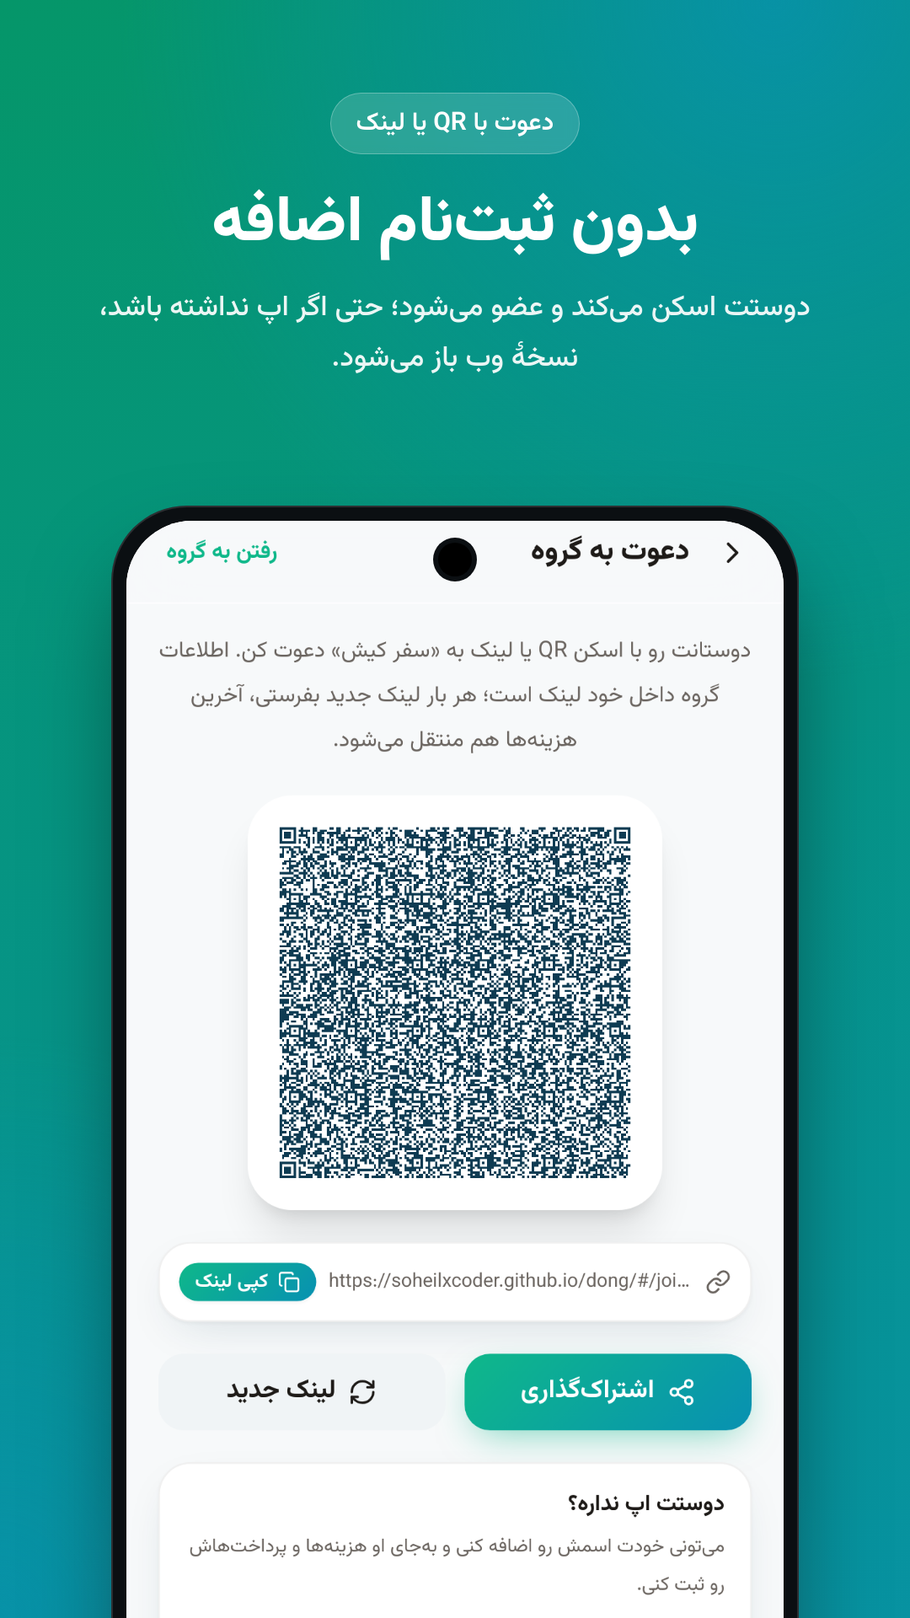
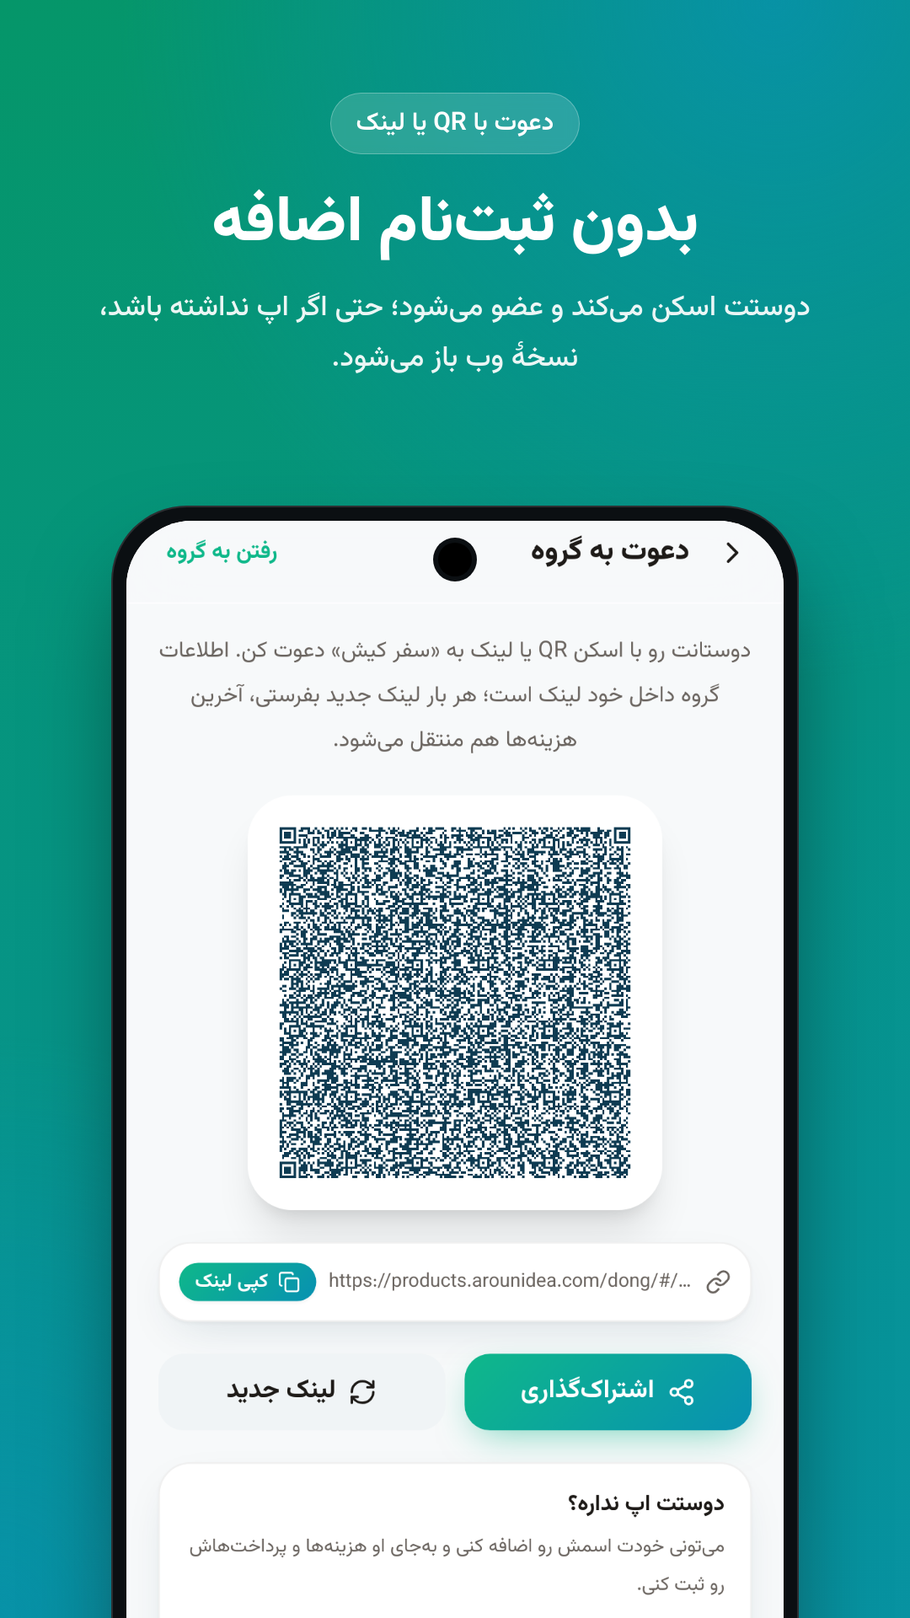
app: invite/deep links now use products.arounidea.com; Android: opt out of Android-15 edge-to-edge + themed system bars (fixes header under status bar, nav bar too low, light/dark layout differences); faster sync (250ms publish, reconnect+pull on resume/online/every 20s); compact home group list, gl

Changed region(s): [[0.3056, 0.5, 0.7028, 0.75], [0.4278, 0.7812, 0.7333, 0.8125]]

diff --git a/apps/web/src/features/home/HomePage.tsx b/apps/web/src/features/home/HomePage.tsx
@@ -1,7 +1,7 @@
 import { useEffect, useMemo, useState } from 'react';
 import { Link, useNavigate } from 'react-router-dom';
 import { motion } from 'framer-motion';
-import { Plus, Sparkles, Bell, ChevronLeft, Link2 } from 'lucide-react';
+import { Plus, Sparkles, Bell, ChevronLeft, Link2, BadgeCheck } from 'lucide-react';
 import { computeNetBalances, simplifyDebts, userBalance, formatAmount } from '@dong/core';
 import { useStore } from '@/app/store';
 import { fmtDate } from '@/lib/date';
@@ -88,8 +88,8 @@ export function HomePage() {
           <AmountText value={Math.abs(total)} className={`text-4xl font-black ${total > 0 ? 'text-pos' : total < 0 ? 'text-neg' : 'text-ink'}`} suffix="" />
           <span className="text-ink-2 font-bold">تومان</span>
         </div>
-        <p className={`text-sm font-bold mt-1 ${total > 0 ? 'text-pos' : total < 0 ? 'text-neg' : 'text-neutral2'}`}>
-          {total > 0 ? 'در مجموع طلبکاری' : total < 0 ? 'در مجموع بدهکاری' : 'صاف صافی 🎉'}
+        <p className={`text-sm font-bold mt-1 flex items-center gap-1.5 ${total > 0 ? 'text-pos' : total < 0 ? 'text-neg' : 'text-pos'}`}>
+          {total > 0 ? 'در مجموع طلبکاری' : total < 0 ? 'در مجموع بدهکاری' : <><BadgeCheck size={16} /> حسابت صافه</>}
         </p>
         <div className="grid grid-cols-2 gap-3 mt-4">
           <div className="rounded-2xl bg-pos/10 p-3"><p className="text-xs text-ink-2">باید بگیری</p><p className="num font-extrabold text-pos mt-0.5">{formatAmount(owed)}</p></div>
@@ -116,32 +116,34 @@ export function HomePage() {
         <Empty mood="waiting" title="هنوز گروهی نداری" text="یک گروه بساز و دوستات رو با لینک یا QR دعوت کن؛ از همون لحظه هزینهها رو ثبت کنید."
           action={<div className="flex gap-2"><button onClick={() => nav('/new-group')} className="btn-primary">گروه جدید</button>{isDev() && <button onClick={loadDemo} disabled={busyDemo} className="btn-ghost"><Sparkles size={16} /> نمونه</button>}</div>} />
       ) : (
-        <div className="px-5 mt-3 grid grid-cols-2 gap-3">
-          {summaries.map(({ g, mine, pendingForMe, last, urgency }, i) => {
-            const big = i === 0 || urgency >= 2;
-            return (
-              <motion.button key={g.group.id} layoutId={`g-${g.group.id}`} onClick={() => nav(`/g/${g.group.id}`)}
-                initial={{ opacity: 0, y: 16 }} animate={{ opacity: 1, y: 0 }} transition={{ delay: i * 0.05 }}
-                className={`card text-right p-4 flex flex-col justify-between relative overflow-hidden ${big ? 'col-span-2 min-h-36' : 'min-h-36'}`}>
-                {g.group.coverImageUrl && <div className="absolute inset-0 pointer-events-none" style={{ background: `linear-gradient(to left, rgb(var(--c-surface) / 0.25), rgb(var(--c-surface)) 55%), url(${g.group.coverImageUrl}) left center / cover no-repeat` }} />}
-                <div className="relative flex items-start justify-between gap-2">
-                  <div className="min-w-0">
-                    <h3 className="font-extrabold truncate text-base">{g.group.name}</h3>
-                    <p className="text-xs text-ink-2 mt-0.5">{fmtAgo(last)}</p>
-                  </div>
-                  {pendingForMe > 0 && <span className="chip bg-amber2/15 text-amber2 shrink-0">{formatAmount(pendingForMe)} تأیید</span>}
+        <div className="px-5 mt-3 flex flex-col gap-2.5">
+          {summaries.map(({ g, mine, pendingForMe, last }, i) => (
+            <motion.button key={g.group.id} layoutId={`g-${g.group.id}`} onClick={() => nav(`/g/${g.group.id}`)}
+              initial={{ opacity: 0, y: 12 }} animate={{ opacity: 1, y: 0 }} transition={{ delay: i * 0.04 }}
+              className="card text-right p-3 flex items-center gap-3 relative overflow-hidden">
+              <span className="absolute inset-y-0 right-0 w-1" style={{ background: mine > 0 ? 'rgb(var(--c-pos))' : mine < 0 ? 'rgb(var(--c-neg))' : 'var(--grad-brand)' }} />
+              <div className="h-12 w-12 rounded-2xl shrink-0 overflow-hidden grid place-items-center text-white font-black text-lg shadow-md"
+                style={{ background: g.group.coverImageUrl ? `url(${g.group.coverImageUrl}) center/cover` : 'var(--grad-hero)' }}>
+                {!g.group.coverImageUrl && g.group.name.trim().charAt(0)}
+              </div>
+              <div className="flex-1 min-w-0">
+                <div className="flex items-center gap-2 min-w-0">
+                  <h3 className="font-extrabold truncate text-[15px]">{g.group.name}</h3>
+                  {pendingForMe > 0 && <span className="chip bg-amber2/15 text-amber2 shrink-0 !py-0.5">{formatAmount(pendingForMe)} تأیید</span>}
                 </div>
-                <div className={`relative flex items-end justify-between mt-3 ${big ? '' : 'flex-col items-start gap-2'}`}>
-                  <AvatarStack names={g.members.map((m) => ({ name: m.user.fullName, src: m.user.avatarUrl }))} size={big ? 30 : 26} max={big ? 6 : 3} />
-                  <BalanceChip value={mine} />
+                <div className="flex items-center gap-2 mt-1.5">
+                  <AvatarStack names={g.members.map((m) => ({ name: m.user.fullName, src: m.user.avatarUrl }))} size={20} max={4} />
+                  <span className="text-[11px] text-ink-2">· {fmtAgo(last)}</span>
                 </div>
-                {big && <span className="absolute left-3 top-1/2 -translate-y-1/2 text-ink-2/40"><ChevronLeft /></span>}
-              </motion.button>
-            );
-          })}
+              </div>
+              <div className="flex items-center gap-1.5 shrink-0">
+                <BalanceChip value={mine} />
+                <ChevronLeft size={16} className="text-ink-2/50" />
+              </div>
+            </motion.button>
+          ))}
         </div>
       )}
-
       <Tour id="home" steps={[
         { title: 'به دُنگ خوش اومدی!', text: 'اینجا خلاصه کل حسابکتابت رو میبینی: چقدر طلب داری و چقدر بدهی. روی هر گروه بزن تا جزئیاتش رو ببینی.', target: 'balance', mood: 'happy' },
         { title: 'گروه بساز', text: 'برای هر سفر یا دورهمی یک گروه بساز و دوستات رو با لینک یا QR دعوت کن.', target: 'fab' },
@@ -150,9 +152,8 @@ export function HomePage() {
       ]} />
       {/* FAB */}
       <motion.button data-tour="fab" whileTap={{ scale: 0.92 }} onClick={() => nav('/new-group')} aria-label="گروه جدید"
-        className="fixed left-5 bottom-[calc(var(--safe-bottom)+92px)] z-40 h-16 w-16 rounded-full grid place-items-center text-white shadow-2xl"
-        style={{ background: 'var(--grad-celebrate)' }}>
-        <Plus size={30} strokeWidth={2.5} />
+        className="fab-ring fixed left-5 bottom-[calc(var(--safe-bottom)+96px)] z-40 h-14 w-14 rounded-full">
+        <span className="h-full w-full rounded-full grid place-items-center text-white" style={{ background: 'var(--grad-celebrate)' }}><Plus size={26} strokeWidth={2.5} /></span>
       </motion.button>
     </div>
   );

diff --git a/apps/web/src/features/groups/GroupPage.tsx b/apps/web/src/features/groups/GroupPage.tsx
@@ -58,9 +58,10 @@ export function GroupPage() {
   return (
     <div className="min-h-dvh pb-32">
       {/* Parallax header */}
-      <motion.div layoutId={`g-${g.group.id}`} className="relative h-56 overflow-hidden curve-bottom grain">
+      <motion.div layoutId={`g-${g.group.id}`} className="relative h-52 overflow-hidden curve-bottom">
         <div className="absolute inset-0" style={{ background: g.group.coverImageUrl ? `url(${g.group.coverImageUrl}) center/cover` : 'var(--grad-hero)' }} />
-        <div className="absolute inset-0 bg-gradient-to-t from-black/60 via-black/10 to-black/20" />
+        {g.group.coverImageUrl && <div className="absolute inset-0" style={{ background: 'linear-gradient(to top, rgba(4,20,24,0.78) 0%, rgba(4,20,24,0.35) 45%, rgba(4,20,24,0.18) 100%)' }} />}
+        {!g.group.coverImageUrl && <><div className="hero-blob hero-blob-a" /><div className="hero-blob hero-blob-b" /></>}
         <div className="relative h-full flex flex-col justify-between p-4" style={{ paddingTop: 'calc(var(--safe-top) + 12px)' }}>
           <div className="flex items-center justify-between text-white">
             <button onClick={() => nav('/')} className="p-2 rounded-full bg-white/15" aria-label="بازگشت"><ChevronRight size={22} /></button>
@@ -76,8 +77,10 @@ export function GroupPage() {
             </div>
           </div>
           <div className="text-white">
-            <h1 className="text-2xl font-black drop-shadow">{g.group.name}</h1>
-            <div className="flex items-center justify-between mt-2">
+            <div className="inline-flex max-w-full items-center rounded-2xl px-3.5 py-2 backdrop-blur-md" style={{ background: 'rgba(6,18,22,0.45)', boxShadow: '0 0 0 1px rgba(255,255,255,0.18) inset' }}>
+              <h1 className="text-xl font-black text-white truncate">{g.group.name}</h1>
+            </div>
+            <div className="flex items-center justify-between mt-2.5">
               <button data-tour="avatars" onClick={() => nav(`/g/${id}/invite`)}><AvatarStack names={g.members.map((m) => ({ name: m.user.fullName, src: m.user.avatarUrl }))} size={30} /></button>
               <BalanceChip value={calc.mine} />
             </div>
@@ -144,13 +147,15 @@ export function GroupPage() {
                     <p className="font-bold truncate">{m.user.fullName} {m.userId === me.id && <span className="text-xs text-ink-2">(من)</span>} {m.role === 'owner' && <span className="chip bg-amber2/15 text-amber2 mr-1">مالک</span>}</p>
                     {m.user.cardNumber ? <p className="mono text-[11px] text-ink-2 mt-0.5 whitespace-nowrap" dir="ltr" style={{ letterSpacing: "0.05em" }}>{formatCardNumber(m.user.cardNumber)}</p> : <p className="text-[11px] text-ink-2 mt-0.5">شماره کارت ثبت نشده</p>}
                   </div>
-                  <div className="flex flex-col items-end gap-1.5">
+                  <div className="flex flex-col items-end gap-1.5 shrink-0">
                     <BalanceChip value={b} />
-                    {m.user.cardNumber && <CopyButton text={m.user.cardNumber} label="کپی شماره کارت" small />}
+                    <div className="flex items-center gap-1">
+                      {m.user.cardNumber && <CopyButton text={m.user.cardNumber} label="کپی شماره کارت" small />}
+                      {isOwner && m.userId !== me.id && (
+                        <button onClick={async () => { if (!confirm(`«${m.user.fullName}» از گروه حذف شود؟`)) return; try { await adapter.removeMember(g.group.id, m.userId); toast('حذف شد'); } catch (e) { toast((e as Error).message, 'err'); } }} className="h-7 w-7 rounded-full grid place-items-center bg-neg/10 text-neg" aria-label="حذف عضو"><Trash2 size={14} /></button>
+                      )}
+                    </div>
                   </div>
-                  {isOwner && m.userId !== me.id && (
-                    <button onClick={async () => { if (!confirm(`«${m.user.fullName}» از گروه حذف شود؟`)) return; try { await adapter.removeMember(g.group.id, m.userId); toast('حذف شد'); } catch (e) { toast((e as Error).message, 'err'); } }} className="p-2 text-ink-2" aria-label="حذف"><Trash2 size={16} /></button>
-                  )}
                 </div>
               );
             })}
@@ -167,8 +172,8 @@ export function GroupPage() {
         { title: 'شفافیت کامل', text: 'همه اتفاقات گروه (هزینه، ویرایش، پرداخت، تأیید) در تب فعالیت ثبت میشه تا هیچکس گیج نشه.', target: 'tab-activity' },
       ]} />
       <motion.button data-tour="fab-expense" whileTap={{ scale: 0.92 }} onClick={() => nav(`/g/${id}/expense/new`)}
-        className="fixed left-5 bottom-[calc(var(--safe-bottom)+24px)] z-40 h-14 pl-5 pr-4 rounded-full flex items-center gap-2 text-white font-extrabold shadow-2xl" style={{ background: 'var(--grad-brand)' }}>
-        <Plus size={24} strokeWidth={2.5} /> ثبت هزینه
+        className="fab-ring fixed left-5 bottom-[calc(var(--safe-bottom)+24px)] z-40 h-13 rounded-full">
+        <span className="h-full w-full rounded-full flex items-center gap-2 pl-5 pr-4 py-3 text-white font-extrabold" style={{ background: 'var(--grad-brand)' }}><Plus size={22} strokeWidth={2.5} /> ثبت هزینه</span>
       </motion.button>
 
       {/* Menu */}

diff --git a/apps/web/src/app/BottomNav.tsx b/apps/web/src/app/BottomNav.tsx
@@ -12,14 +12,14 @@ export function BottomNav() {
   const { pathname } = useLocation();
   if (pathname.startsWith('/g/')) return null;
   return (
-    <nav className="fixed bottom-0 inset-x-0 z-40 flex justify-center pointer-events-none" style={{ paddingBottom: 'calc(var(--safe-bottom) + 12px)' }}>
-      <div className="glass pointer-events-auto flex items-center gap-1 rounded-full px-2 py-1.5 shadow-2xl" style={{ background: 'rgb(var(--c-surface) / 0.7)' }}>
+    <nav className="fixed bottom-0 inset-x-0 z-40 flex justify-center pointer-events-none" style={{ paddingBottom: 'calc(var(--safe-bottom) + 14px)' }}>
+      <div className="glass pointer-events-auto flex items-center gap-1 rounded-full px-2.5 py-2 shadow-2xl" style={{ background: 'rgb(var(--c-surface) / 0.7)' }}>
         {items.map(({ to, label, Icon }) => (
-          <NavLink key={to} to={to} end className="relative flex items-center gap-2 px-4 py-2.5 rounded-full text-sm font-bold">
+          <NavLink key={to} to={to} end className="relative flex items-center gap-2 px-5 py-3 rounded-full text-[15px] font-bold">
             {({ isActive }) => (
               <>
                 {isActive && <motion.span layoutId="nav-pill" className="absolute inset-0 rounded-full" style={{ background: 'var(--grad-brand)' }} transition={{ type: 'spring', stiffness: 400, damping: 30 }} />}
-                <Icon size={20} className={`relative ${isActive ? 'text-white' : 'text-ink-2'}`} />
+                <Icon size={22} className={`relative ${isActive ? 'text-white' : 'text-ink-2'}`} />
                 {isActive && <span className="relative text-white">{label}</span>}
               </>
             )}

diff --git a/apps/web/src/lib/capacitor.ts b/apps/web/src/lib/capacitor.ts
@@ -2,6 +2,17 @@ import { initAds } from './ads';
 import { Capacitor } from '@capacitor/core';
 import { App } from '@capacitor/app';
 import { StatusBar, Style } from '@capacitor/status-bar';
+import { registerPlugin } from '@capacitor/core';
+
+const SystemBars = registerPlugin<{ setColors(o: { status: string; nav: string; dark: boolean }): Promise<void> }>('SystemBars');
+/** Match Android status/navigation bar colors to the in-app theme. No-op on web. */
+export function syncSystemBars(dark: boolean) {
+  if (!Capacitor.isNativePlatform()) return;
+  const bg = dark ? '#0F1416' : '#F7F9FA';
+  StatusBar.setStyle({ style: dark ? Style.Dark : Style.Light }).catch(() => {});
+  StatusBar.setBackgroundColor({ color: bg }).catch(() => {});
+  SystemBars.setColors({ status: bg, nav: bg, dark }).catch(() => {});
+}
 import { SplashScreen } from '@capacitor/splash-screen';
 import '@capacitor/haptics';
 import '@capacitor/share';
@@ -12,8 +23,8 @@ import '@capacitor/local-notifications';
 export function initNative(navigate: (path: string) => void) {
   if (!Capacitor.isNativePlatform()) return;
   setTimeout(() => { void initAds(); }, 800); // preload the single startup ad
-  StatusBar.setStyle({ style: Style.Dark }).catch(() => {});
-  StatusBar.setOverlaysWebView({ overlay: true }).catch(() => {});
+  StatusBar.setOverlaysWebView({ overlay: false }).catch(() => {});
+  syncSystemBars(document.documentElement.classList.contains('dark'));
   SplashScreen.hide().catch(() => {});
   App.addListener('appUrlOpen', ({ url }) => {
     // https://soheilxcoder.github.io/dong/#/join/TOKEN?s=SNAPSHOT  or  dong://join/TOKEN?s=...

diff --git a/apps/web/src/data/sync.ts b/apps/web/src/data/sync.ts
@@ -88,6 +88,17 @@ export class GroupSync {
     entry.close = () => sub.close();
   }
 
+  /** Force-reconnect every subscription (after app resume / network back) and pull the latest snapshot once. */
+  async resync(getKey: (groupId: string) => Promise<string | undefined>) {
+    const ids = [...this.subs.keys()];
+    for (const id of ids) { this.subs.get(id)?.close(); this.subs.delete(id); }
+    for (const id of ids) {
+      const key = await getKey(id); if (!key) continue;
+      this.watch(id, key).catch(() => {});
+      this.fetchLatest(id, key, 5000).then((snap) => { if (snap) return this.onIncoming(id, snap); }).catch(() => {});
+    }
+  }
+
   unwatch(groupId: string) { this.subs.get(groupId)?.close(); this.subs.delete(groupId); if (!this.subs.size) this.setStatus('off'); }
 
   /** Debounced publish of the full (slim) snapshot. */
@@ -105,7 +116,7 @@ export class GroupSync {
         const ok = results.some((r) => r.status === 'fulfilled');
         this.setStatus(ok ? 'online' : 'error');
       } catch { this.setStatus('error'); }
-    }, 800));
+    }, 250));
   }
 
   /** One-shot fetch of the latest snapshot for a key (used when joining). */

diff --git a/apps/web/src/index.css b/apps/web/src/index.css
@@ -90,6 +90,9 @@ input, textarea, select, button { font-family: inherit; }
   .hero-ring::before { content: ''; position: absolute; inset: -6px; border-radius: 34px; z-index: -1; opacity: .35; filter: blur(14px);
     background: conic-gradient(from var(--ring-a), #0FB88A, #38bdf8, #a78bfa, #fbbf24, #34d399, #0FB88A); animation: ring-spin 7s linear infinite; }
   @keyframes ring-spin { to { --ring-a: 360deg; } }
+  .fab-ring { padding: 2.5px; background: conic-gradient(from var(--ring-a), #ffffff, #fbbf24, #ffffff, #38bdf8, #ffffff); animation: ring-spin 5s linear infinite;
+    box-shadow: 0 12px 30px -10px rgb(var(--c-brand) / 0.8), 0 0 0 4px rgb(var(--c-bg) / 0.9); }
+  .h-13 { height: 3.25rem; }
   @media (prefers-reduced-motion: reduce) { .hero-ring, .hero-ring::before { animation: none; } }
   .hero-blob { position: absolute; border-radius: 9999px; pointer-events: none; filter: blur(2px); }
   .hero-blob-a { width: 220px; height: 220px; right: -70px; top: -110px; background: radial-gradient(circle, #ffffff33, transparent 70%); }

diff --git a/apps/web/src/data/local.ts b/apps/web/src/data/local.ts
@@ -74,6 +74,18 @@ export class LocalAdapter implements DataAdapter {
       const g = await db.groups.get(m.groupId);
       if (g?.syncKey) this.sync.watch(g.id, g.syncKey).catch(() => {});
     }
+    this.installResyncHooks();
+  }
+  private hooksInstalled = false;
+  /** Mobile radios drop WebSockets silently: reconnect + pull on resume / network back / every 20 s in foreground. */
+  private installResyncHooks() {
+    if (this.hooksInstalled) return; this.hooksInstalled = true;
+    const key = async (id: string) => (await db.groups.get(id))?.syncKey ?? undefined;
+    const resync = () => { if (document.visibilityState === 'visible' && navigator.onLine) this.sync.resync(key).catch(() => {}); };
+    document.addEventListener('visibilitychange', resync);
+    window.addEventListener('online', resync);
+    window.addEventListener('focus', resync);
+    setInterval(resync, 20000);
   }
   private async fullSnapshot(groupId: string): Promise<Snapshot> {
     const g = (await db.groups.get(groupId))!;

diff --git a/apps/web/src/app/store.ts b/apps/web/src/app/store.ts
@@ -95,6 +95,7 @@ export const useStore = create<State>((set, get) => ({
 export function applyTheme(t: Theme) {
   const dark = t === 'dark' || (t === 'system' && window.matchMedia('(prefers-color-scheme: dark)').matches);
   document.documentElement.classList.toggle('dark', dark);
-  document.querySelector('meta[name=theme-color]')?.setAttribute('content', dark ? '#0F1416' : '#0FB88A');
+  document.querySelector('meta[name=theme-color]')?.setAttribute('content', dark ? '#0F1416' : '#F7F9FA');
+  import('@/lib/capacitor').then((m) => m.syncSystemBars(dark)).catch(() => {});
 }
 window.matchMedia('(prefers-color-scheme: dark)').addEventListener('change', () => applyTheme(useStore.getState().settings.theme));

diff --git a/apps/web/src/features/settlements/SettleTab.tsx b/apps/web/src/features/settlements/SettleTab.tsx
@@ -68,7 +68,7 @@ export function SettleTab({ g, balances, transfers }: { g: GroupDetail; balances
       <section>
         <h3 className="text-sm font-extrabold text-ink-2 mb-2">کی به کی چقدر بده</h3>
         {transfers.length === 0 ? (
-          <Empty mood="happy" title="تمومه! صاف صافه 🎉" text="هیچکس به کسی بدهکار نیست." />
+          <Empty mood="happy" title="حساب همه صافه" text="هیچکس به کسی بدهکار نیست." />
         ) : (
           <div className="flex flex-col gap-2">
             {transfers.map((t, i) => {

diff --git a/apps/web/capacitor.config.ts b/apps/web/capacitor.config.ts
@@ -7,7 +7,7 @@ const config: CapacitorConfig = {
   android: { allowMixedContent: false, backgroundColor: '#0F1416' },
   plugins: {
     SplashScreen: { launchShowDuration: 800, backgroundColor: '#042e2c', androidScaleType: 'CENTER_CROP', showSpinner: false },
-    StatusBar: { style: 'DARK', backgroundColor: '#042e2c', overlaysWebView: true },
+    StatusBar: { style: 'LIGHT', backgroundColor: '#F7F9FA', overlaysWebView: false },
     LocalNotifications: { smallIcon: 'ic_stat_dong', iconColor: '#0FB88A' },
   },
 };

diff --git a/apps/web/android/app/src/main/java/ir/dong/app/SystemBarsPlugin.java b/apps/web/android/app/src/main/java/ir/dong/app/SystemBarsPlugin.java
@@ -1,0 +1,40 @@
+package ir.dong.app;
+
+import android.graphics.Color;
+import android.os.Build;
+import android.view.View;
+import android.view.Window;
+
+import androidx.core.view.WindowCompat;
+import androidx.core.view.WindowInsetsControllerCompat;
+
+import com.getcapacitor.JSObject;
+import com.getcapacitor.Plugin;
+import com.getcapacitor.PluginCall;
+import com.getcapacitor.PluginMethod;
+import com.getcapacitor.annotation.CapacitorPlugin;
+
+/** Colors the Android status + navigation bars to match the in-app theme (no edge-to-edge overlap). */
+@CapacitorPlugin(name = "SystemBars")
+public class SystemBarsPlugin extends Plugin {
+    @PluginMethod
+    public void setColors(PluginCall call) {
+        final String status = call.getString("status", "#F7F9FA");
+        final String nav = call.getString("nav", status);
+        final boolean dark = Boolean.TRUE.equals(call.getBoolean("dark", false));
+        getActivity().runOnUiThread(() -> {
+            try {
+                Window w = getActivity().getWindow();
+                WindowCompat.setDecorFitsSystemWindows(w, true);
+                w.setStatusBarColor(Color.parseColor(status));
+                w.setNavigationBarColor(Color.parseColor(nav));
+                if (Build.VERSION.SDK_INT >= 29) w.setNavigationBarContrastEnforced(false);
+                View decor = w.getDecorView();
+                WindowInsetsControllerCompat c = new WindowInsetsControllerCompat(w, decor);
+                c.setAppearanceLightStatusBars(!dark);
+                c.setAppearanceLightNavigationBars(!dark);
+                call.resolve(new JSObject());
+            } catch (Exception e) { call.reject(e.getMessage()); }
+        });
+    }
+}

diff --git a/apps/web/android/app/src/main/java/ir/dong/app/MainActivity.java b/apps/web/android/app/src/main/java/ir/dong/app/MainActivity.java
@@ -9,6 +9,7 @@ public class MainActivity extends BridgeActivity {
     public void onCreate(Bundle savedInstanceState) {
         registerPlugin(TapsellPlugin.class);
         registerPlugin(DongNotifyPlugin.class);
+        registerPlugin(SystemBarsPlugin.class);
         super.onCreate(savedInstanceState);
     }
 }
